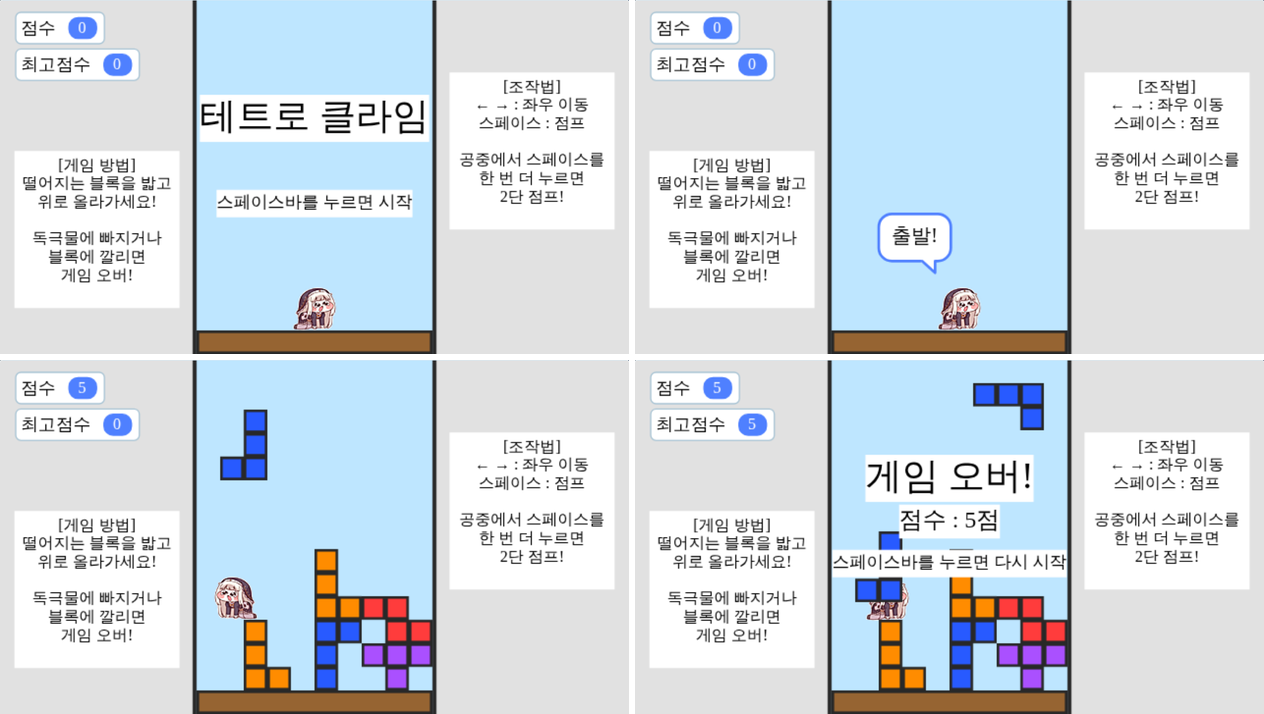
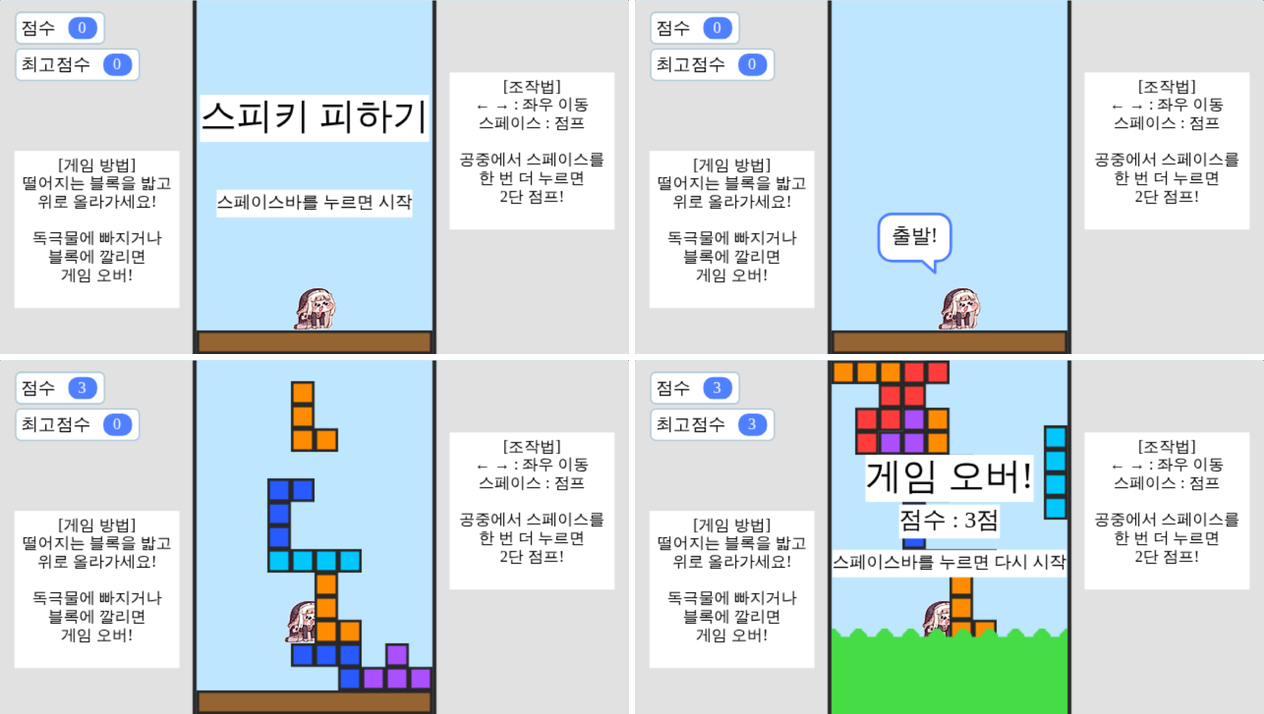
게임 제목을 '스피키 피하기'로 변경
Claude-Session: https://claude.ai/code/session_017PjC3SLSCf9kkAHiuEagBy

diff --git a/tools/build_tetro_climb.py b/tools/build_tetro_climb.py
@@ -1,5 +1,5 @@
 #!/usr/bin/env python3
-"""테트로 클라임(.ent) 생성기.
+"""스피키 피하기(.ent) 생성기.
 
 실행:  python3 tools/build_tetro_climb.py
 결과:  tetro_climb.ent  (엔트리 오프라인 / playentry.org '오프라인 작품 불러오기'로 열기)
@@ -950,8 +950,8 @@ def build_project():
 
     add_obj(sprite_object(OID["manager"], "게임 관리자", PIC["manager"], SND["manager"], visible=False), scripts_manager())
     add_obj(
-        text_object(OID["title"], "제목 글상자", "테트로 클라임", 0, 45, 28),
-        scripts_message_box("테트로 클라임", "게임 오버!"),
+        text_object(OID["title"], "제목 글상자", "스피키 피하기", 0, 45, 28),
+        scripts_message_box("스피키 피하기", "게임 오버!"),
     )
     add_obj(
         text_object(OID["result"], "점수 글상자", "점수", 0, 12, 18, visible=False),
@@ -981,7 +981,7 @@ def build_project():
          "isCloud": False, "isRealTime": False, "cloudDate": False, "object": None, "x": 150, "y": -100},
     ]
     return {
-        "name": "테트로 클라임",
+        "name": "스피키 피하기",
         "objects": objects,
         "scenes": [{"id": SCENE_ID, "name": "장면 1"}],
         "variables": variables,

diff --git a/README.md b/README.md
@@ -1,4 +1,4 @@
-# 테트로 클라임 — 엔트리 게임
+# 스피키 피하기 — 엔트리 게임
 
 ![게임 화면](docs/preview.png)
 
